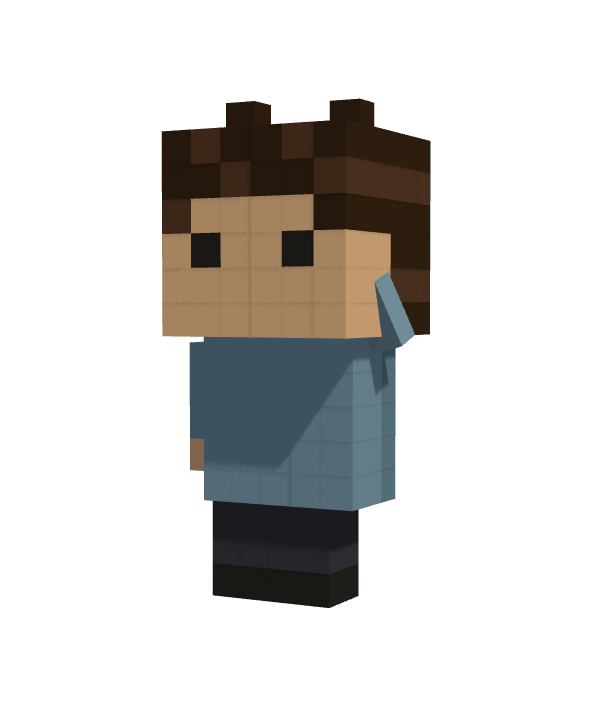
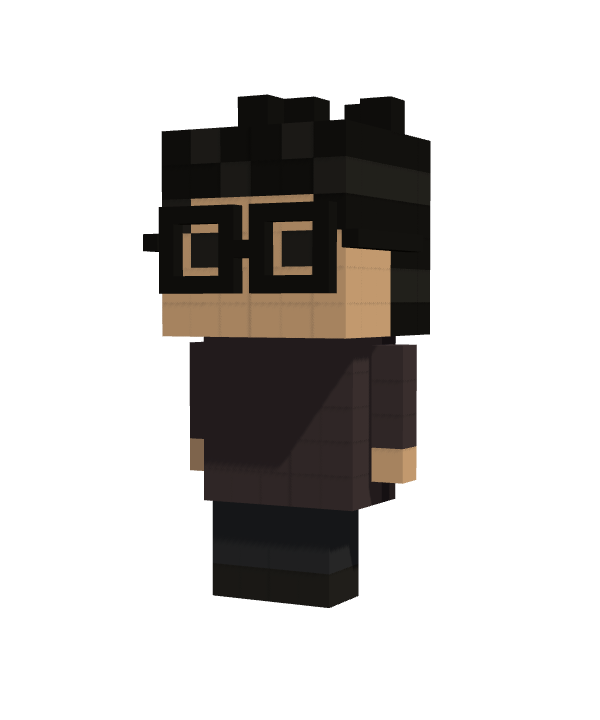
Members: all portraits in one pose, staff full name

Changed region(s): [[0.24, 0.1222, 0.72, 0.7333]]

diff --git a/src/scripts/diorama.js b/src/scripts/diorama.js
@@ -123,7 +123,7 @@ function tree(t, x, z, s = 1, season = null) {
 const CHAR_V = 0.4;                                   // 1 ボクセルの大きさ
 const CHAR_PAL = { hair: 0x4a3222, hairLight: 0x5c4030, skin: 0xf5cba4, eye: 0x2b2b2b, shirt: 0xffffff, shirtShade: 0xe6e6e6, pants: 0x2f3a5c, shoe: 0x5a3a22 };
 function part(list, pivot) { const m = makeVoxels(list, CHAR_V); m.position.set(pivot[0], pivot[1], pivot[2]); return m; }
-// opts: hair（髪色）, skin, shirt, shirtShade, pants, shoe, glasses（眼鏡）, jacket（上着色: 指定すると胴の両脇と背中が上着色）, tie（ネクタイ色）
+// opts: hair（髪色）, hairLight, hairStyle, skin, shirt, shirtShade, pants, shoe, glasses（眼鏡色）, jacket（上着色）, tie（ネクタイ色）, inner（襟元の下着色）, buttons（ボタン色）, collar（襟色）
 function makeChar(opts = {}) {
   const g = new THREE.Group(); const P = { ...CHAR_PAL, ...opts };
   const leg = (sx) => { const v = []; for (let y = -3; y < 0; y++) for (let i = 0; i < 2; i++) for (let k = 0; k < 2; k++) v.push({ x: sx + i - 0.5, y: y + 0.5, z: k - 0.5, c: y === -3 ? P.shoe : P.pants }); return part(v, [0, 1.2, 0]); };
@@ -135,22 +135,37 @@ function makeChar(opts = {}) {
     if (P.jacket) { const front = k === 1 && Math.abs(i) <= 0; c = front ? P.shirt : P.jacket; }      // 上着: 前の中央だけシャツが見える
     if (P.tie && k === 1 && i === 0 && y >= 1 && y <= 4) c = P.tie;                                     // ネクタイ
     if (P.inner && k === 1 && Math.abs(i) <= 1 && y === 4) c = P.inner;                                  // 襟元から見える下着
+    if (P.buttons && k === 1 && i === 0 && (y === 2 || y === 3)) c = P.buttons;                           // 前立てのボタン
+    if (P.collar && k === 1 && (i === -1 || i === 1) && y === 4) c = P.collar;                            // 襟
     body.push({ x: i, y: y + 0.5, z: k, c });
   }
   torso.add(part(body, [0, 0, 0]));
   const arm = (sx) => { const v = []; for (let y = -4; y < 0; y++) v.push({ x: 0, y: y + 0.5, z: 0, c: y === -4 ? P.skin : (P.jacket || P.shirt) }); return part(v, [sx, 1.9, 0]); };
   const armL = arm(-1.25), armR = arm(1.25); torso.add(armL, armR);
   const head = [];
-  const medium = P.hairStyle === 'medium';                            // 肩にかかる長めの髪: 横と後ろが下まで髪、前髪は額の片側
+  // hairStyle: 'short'（既定）/ 'medium'（肩までの長髪、前髪は右に流す）/ 'spiky'（短髪、頭頂が少し立つ）/
+  //            'parted'（センター分けのミディアム）/ 'curly'（ボリュームのあるくせ毛）/ 'bangs'（前髪を下ろした短髪）
+  const HS = P.hairStyle || 'short';
+  const medium = HS === 'medium', parted = HS === 'parted', curly = HS === 'curly', bangs = HS === 'bangs';
   for (let y = 0; y < 6; y++) for (let i = -3; i < 3; i++) for (let k = -3; k < 3; k++) {
     let hair = y >= 4 || k <= -1 || (y >= 3 && (i === -3 || i === 2));
-    if (medium) hair = hair || (y >= 3 && (i === -3 || i === 2)) || (k <= 0 && y >= 1) || (y === 3 && k === 2 && i >= 1);   // 横髪は目の上まで、前髪は右端だけ
+    if (medium) hair = hair || (k <= 0 && y >= 1) || (y === 3 && k === 2 && i >= 1);                     // 横髪は目の上まで、前髪は右端だけ
+    if (parted) hair = hair || (y >= 2 && (i === -3 || i === 2)) || (k <= 0 && y >= 2) || (y === 3 && k === 2 && i !== -1 && i !== 0);   // 真ん中だけ額が見える
+    if (curly)  hair = hair || (y >= 1 && (i === -3 || i === 2)) || (k <= 0 && y >= 1) || (y === 3 && k === 2 && i !== -1 && i !== 0);   // 顔の周りを髪が囲む、額の真ん中だけ見える
+    if (bangs)  hair = hair || (y === 3 && k === 2);                                                        // 前髪を額いっぱいに下ろす
     let c = hair ? ((i + y) % 3 === 0 ? (P.hairLight || P.hair) : P.hair) : P.skin;
     if (!hair && y === 2 && k === 2 && (i === -2 || i === 1)) c = P.eye;
     head.push({ x: i + 0.5, y: y + 0.5, z: k + 0.5, c });
   }
-  if (medium) for (const i of [-3, 2]) for (const k of [-2, -1, 0]) head.push({ x: i + 0.5, y: -0.5, z: k + 0.5, c: P.hair });   // 襟足
-  head.push({ x: 1.5, y: 6.5, z: -0.5, c: P.hair }, { x: -1.5, y: 6.5, z: 0.5, c: P.hair });
+  if (medium || parted) for (const i of [-3, 2]) for (const k of [-2, -1, 0]) head.push({ x: i + 0.5, y: -0.5, z: k + 0.5, c: P.hair });   // 襟足
+  if (curly) {                                                       // 頭の外側にもう一層、ふくらんだ髪を足す
+    for (let y = 1; y < 7; y++) for (let k = -3; k < 2; k++) for (const i of [-4, 3]) if (!(y === 6 && k === 1)) head.push({ x: i + 0.5, y: y + 0.5, z: k + 0.5, c: (i + y + k) % 2 ? P.hair : (P.hairLight || P.hair) });
+    for (let y = 1; y < 7; y++) for (let i = -4; i < 4; i++) head.push({ x: i + 0.5, y: y + 0.5, z: -3.5, c: (i + y) % 2 ? P.hair : (P.hairLight || P.hair) });   // 後ろ
+    for (let i = -3; i < 3; i++) for (let k = -3; k < 2; k++) if ((i * 7 + k * 3) % 4 !== 0) head.push({ x: i + 0.5, y: 6.5, z: k + 0.5, c: P.hair });   // 頭頂のふくらみ
+    for (const [i, k] of [[-4, 2], [3, 2]]) head.push({ x: i + 0.5, y: 2.5, z: k + 0.5, c: P.hair });    // 頬の横にかかる毛先
+  }
+  if (HS === 'spiky') for (const [i, k] of [[-2, -1], [0, 0], [1, -2], [-1, 1], [2, -1]]) head.push({ x: i + 0.5, y: 6.5, z: k + 0.5, c: P.hair });   // 立った毛束
+  if (!curly && HS !== 'spiky') head.push({ x: 1.5, y: 6.5, z: -0.5, c: P.hair }, { x: -1.5, y: 6.5, z: 0.5, c: P.hair });
   const headM = part(head, [0, 2.0, 0]); torso.add(headM);
   if (P.glasses) {                                                   // 眼鏡: 半分の大きさのブロックで、目の周りの枠・ブリッジ・つる
     const gv = [];

diff --git a/public/style.css b/public/style.css
@@ -184,7 +184,7 @@ address { font-style: normal; line-height: 2; }
 .face.back { background: var(--bg2); transform: rotateY(180deg); }
 .face img { width: 100%; flex: 1; min-height: 0; object-fit: cover; object-position: center top; }
 .face.front img { object-fit: contain; padding: 10px 10px 0; }
-.face .meta { padding: 10px 14px 14px; display: flex; flex-direction: column; gap: 2px; background: var(--panel); }
+.face .meta { padding: 10px 14px 14px; min-height: 108px; box-sizing: border-box; display: flex; flex-direction: column; gap: 2px; background: var(--panel); }   /* 英語名の有無で高さが変わらないよう最小高さを揃える */
 .face .meta .role { font-size: 12px; color: var(--accent2); font-weight: 700; }
 .face .meta strong { font-size: 17px; }
 .face .meta .en { font-size: 12px; color: var(--muted); }
